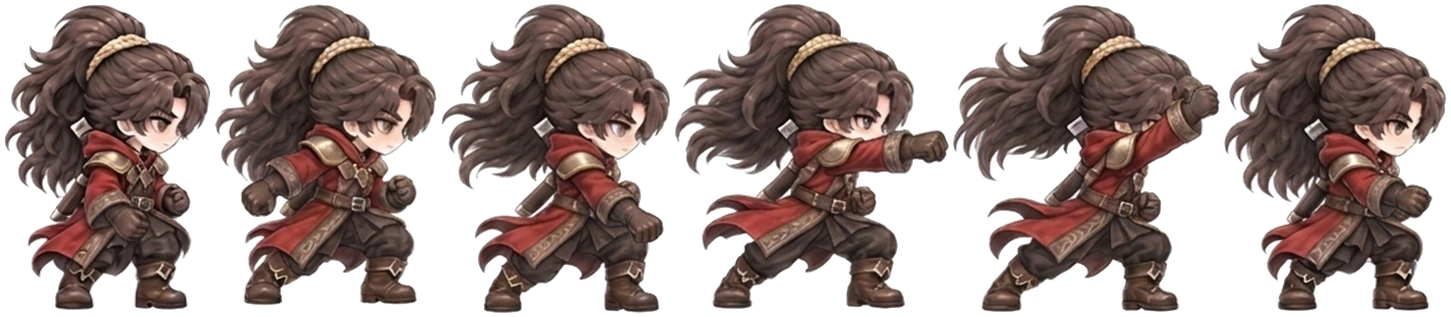
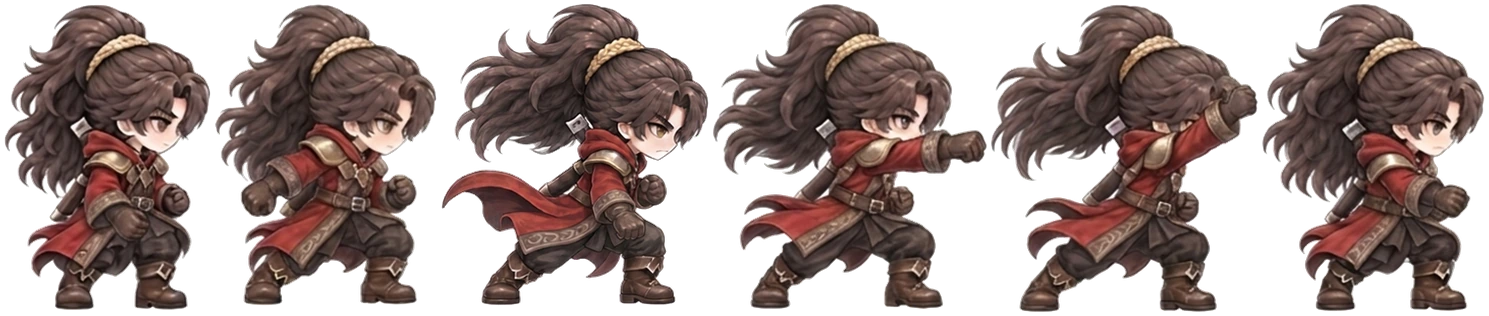
다시 그린 옆 2타 3번 자세의 칼 위치를 재고 아틀라스를 새로 만든다
Claude-Session: https://claude.ai/code/session_01J9LfSfad22sechsEVjmRAY

diff --git a/tools/build_attack_six.py b/tools/build_attack_six.py
@@ -32,12 +32,13 @@ SHEETS = [
         (317, 407, (283, 337), (360, 420)),  # 4 내려 베기 마무리: 칼 5시
         (307, 406, (267, 321), (380, 390)),  # 5 복귀
     ]),
-    # 2타 상승 베기. 칼을 지운 편집본은 0·2·3·5번 칸의 몸이 원본보다 옆으로 3px 밀려 있어(shift),
+    # 2타 상승 베기. 칼을 지운 편집본은 0·3·5번 칸의 몸이 원본보다 옆으로 3px 밀려 있어(shift),
     # 원본에서 잰 좌표를 그만큼 옮겨 편집본의 몸에 맞춘다(양수 = 편집본이 원본보다 왼쪽).
-    dict(prefix='attack2', name='attack2-side6', shift=[3, 0, -3, 3, 0, -3], frames=[
+    # 2번 칸은 다시 그린 자세(낮게 웅크리고 주먹을 무릎 높이로, 칼 5시)라 편집본도 원본과 같은 자리에 있다.
+    dict(prefix='attack2', name='attack2-side6', shift=[3, 0, 0, 3, 0, -3], frames=[
         (329, 466, (287, 379), (405, 441)),  # 0 시작(1타의 끝): 칼 4시
         (337, 466, (173, 365), (61, 435)),   # 1 낮게 뒤로 당김: 칼 8시
-        (335, 466, (333, 375), (450, 447)),  # 2 휘두르기 시작: 칼 4시
+        (317, 465, (285, 391), (393, 461)),  # 2 휘두르기 시작: 낮게 웅크리고 칼 4~5시
         (331, 406, (365, 232), (471, 132)),  # 3 타격(올려 베기): 칼 2시
         (317, 406, (350, 172), (300, 40)),   # 4 마무리: 칼 12시
         (310, 406, (310, 283), (412, 185)),  # 5 자세 정리(3타 시작): 칼 2시
